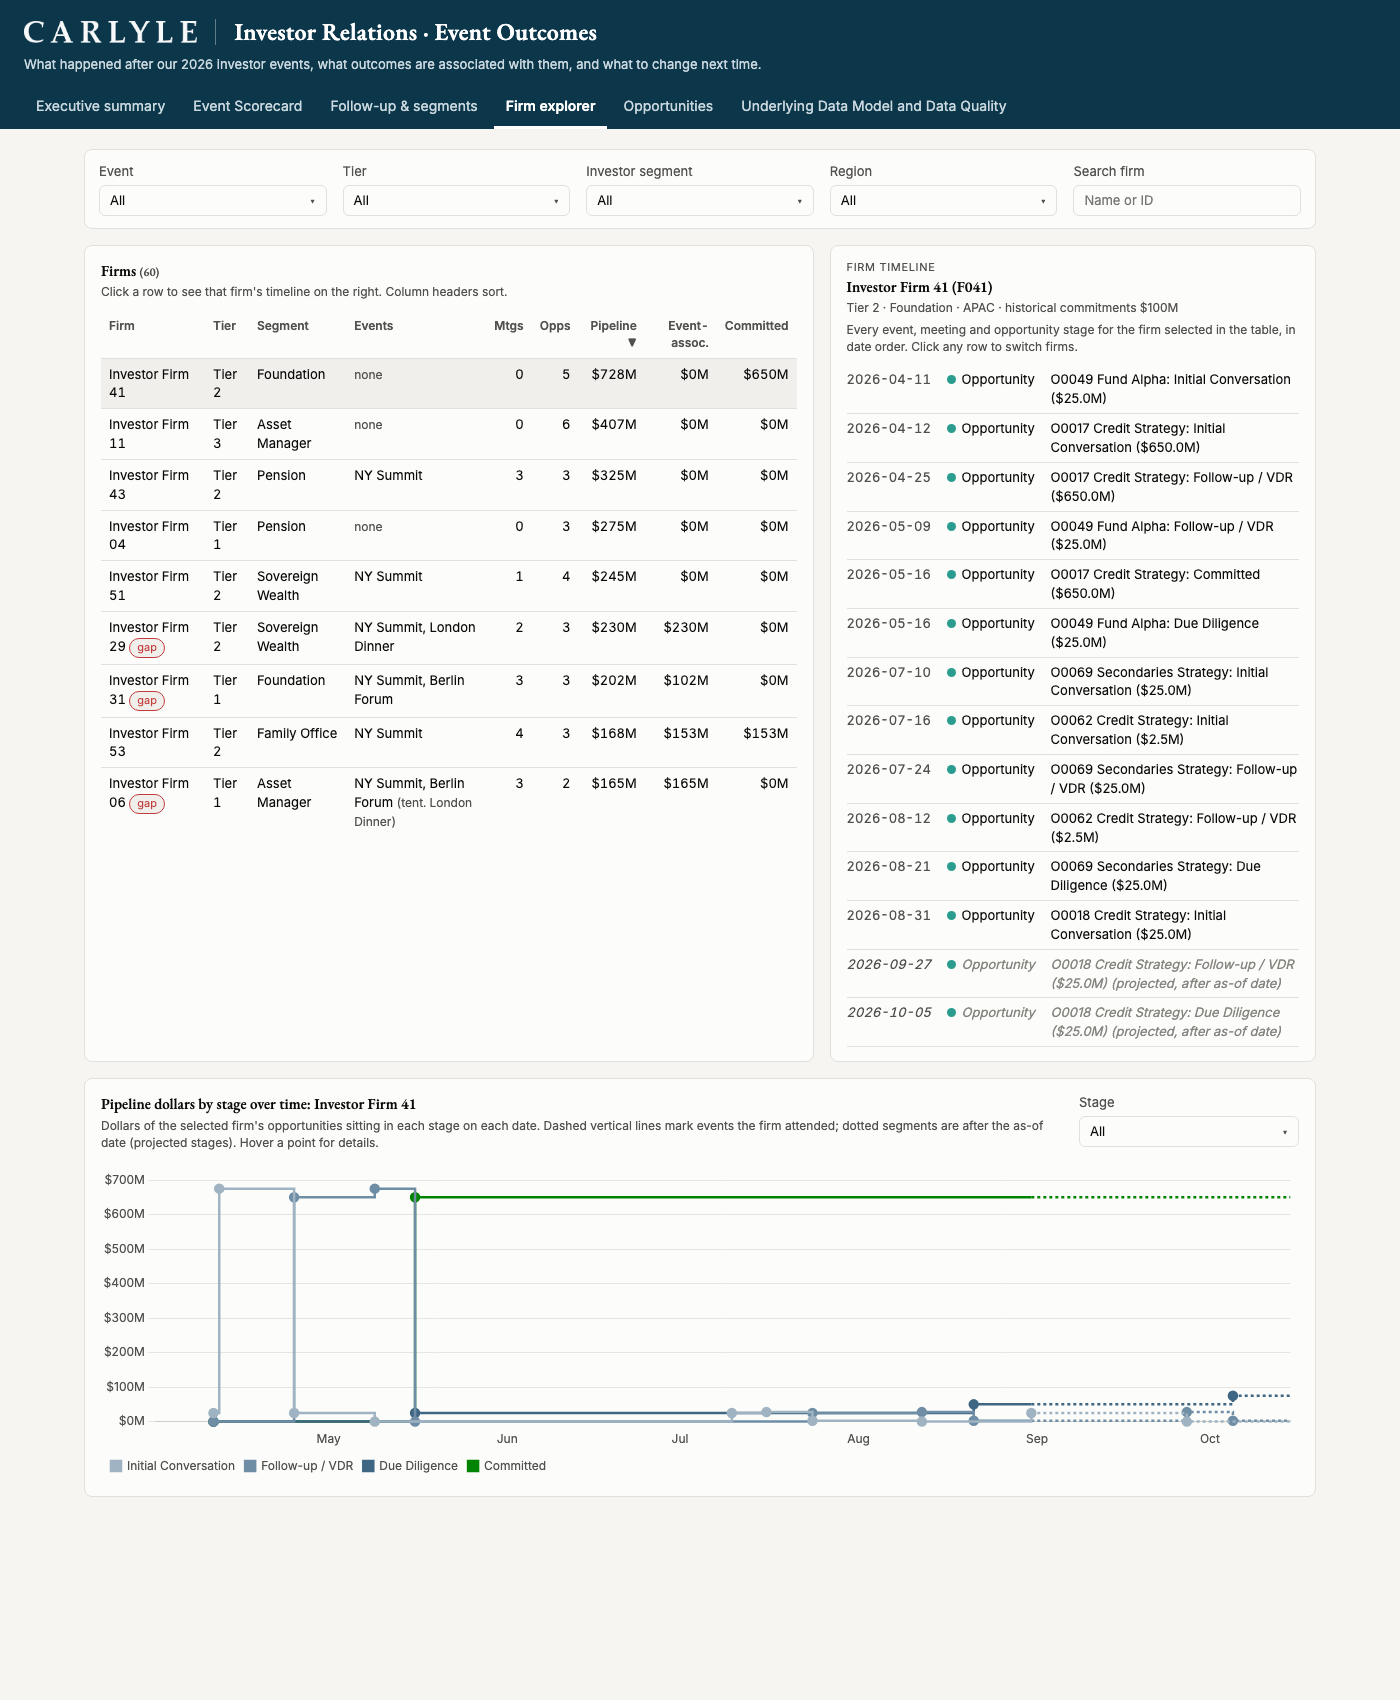
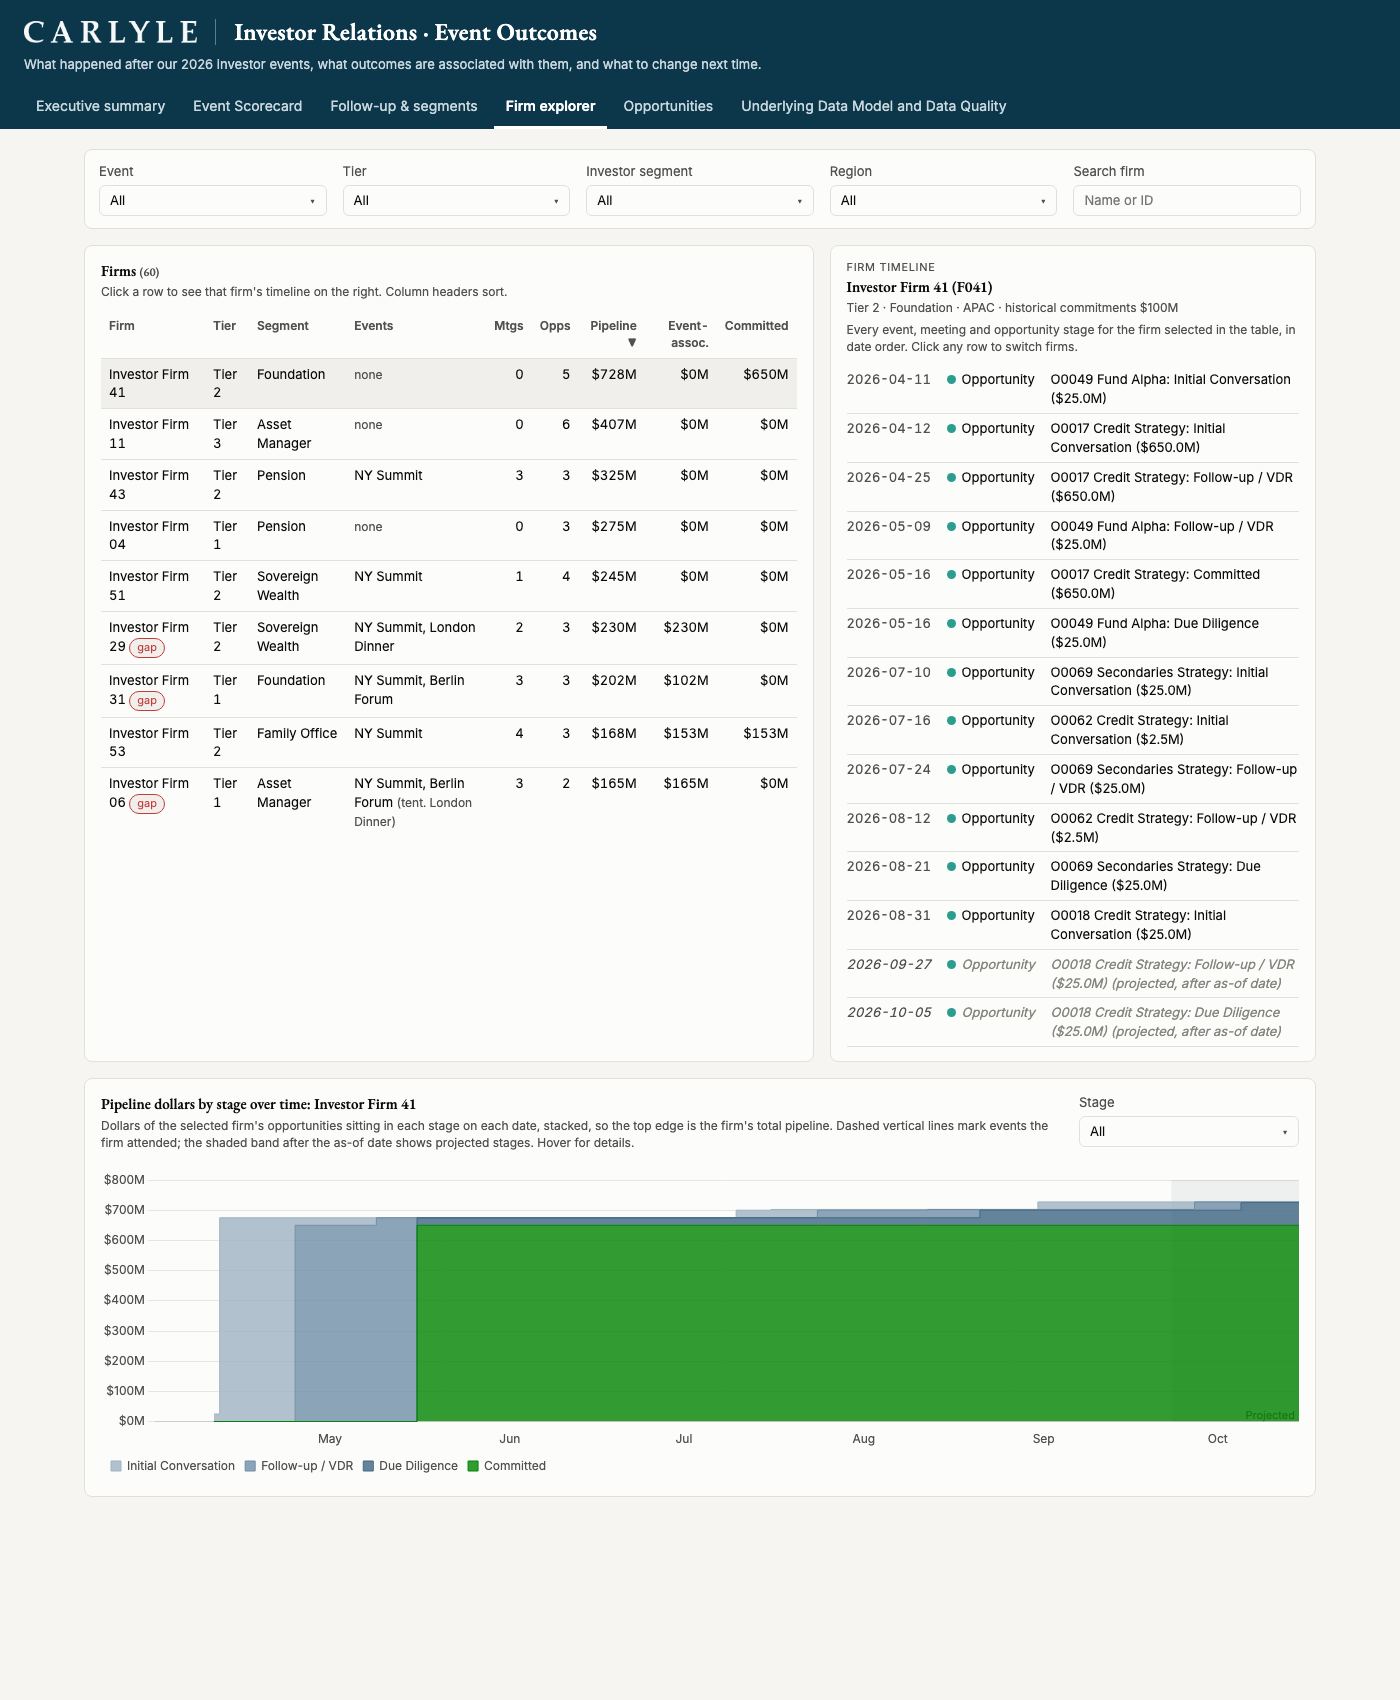
Pipeline dollars by stage: stacked area chart with projected band

Changed region(s): [[0.1229, 0.6547, 0.9521, 0.8418], [0.0614, 0.6859, 0.1229, 0.8106]]

diff --git a/docs/index.html b/docs/index.html
@@ -257,7 +257,7 @@ tr.sel { background: var(--surface-2); }
       <div style="display:flex;justify-content:space-between;align-items:flex-start;gap:16px;flex-wrap:wrap">
         <div style="flex:1;min-width:260px">
           <h2 id="stageTitle">Pipeline dollars by stage over time</h2>
-          <p class="sub">Dollars of the selected firm's opportunities sitting in each stage on each date. Dashed vertical lines mark events the firm attended; dotted segments are after the as-of date (projected stages). Hover a point for details.</p>
+          <p class="sub">Dollars of the selected firm's opportunities sitting in each stage on each date, stacked, so the top edge is the firm's total pipeline. Dashed vertical lines mark events the firm attended; the shaded band after the as-of date shows projected stages. Hover for details.</p>
         </div>
         <label class="sel ctl-inline" style="width:220px"><span class="lbl">Stage</span><details class="ms" id="stageFilter"><summary>All</summary><div class="ms-panel"><div class="ms-opts"><label><input type="checkbox" value="1"> Initial Conversation</label><label><input type="checkbox" value="2"> Follow-up / VDR</label><label><input type="checkbox" value="3"> Due Diligence</label><label><input type="checkbox" value="4"> IC / Documentation</label><label><input type="checkbox" value="5"> Committed</label><label><input type="checkbox" value="0"> Declined</label></div></div></details></label>
       </div>
@@ -755,6 +755,13 @@ function renderTimeline() {
 // A deal sits in a stage from the date it reached it until its next stage; Committed and Declined persist.
 const STAGE_NAMES = ['Declined', 'Initial Conversation', 'Follow-up / VDR', 'Due Diligence', 'IC / Documentation', 'Committed'];
 const STAGE_ORDER = [1, 2, 3, 4, 5, 0];
+const STACK_ORDER = [5, 4, 3, 2, 1, 0];  // bottom to top: Committed at the base, Declined on top
+const projectedBand = {id: 'projectedBand', beforeDatasetsDraw(ch, a, o) {
+  if (!o || o.from == null) return;
+  const {ctx, chartArea: {top, bottom, right}, scales: {x}} = ch, px = Math.max(x.getPixelForValue(o.from), x.left);
+  if (px >= right) return;
+  ctx.save(); ctx.fillStyle = 'rgba(12,55,74,0.06)'; ctx.fillRect(px, top, right - px, bottom - top);
+  ctx.fillStyle = css('--text-2'); ctx.font = '11px Inter, sans-serif'; ctx.textAlign = 'right'; ctx.fillText('Projected', right - 4, bottom - 6); ctx.restore(); }};
 const STAGE_COLORS = () => ({1: '#9fb3c2', 2: '#6f8ea6', 3: '#3f6784', 4: '#1f3f5a', 5: css('--good'), 0: css('--bad')});
 const eventLines = {id: 'eventLines', afterDatasetsDraw(ch, a, o) {
   if (!o || !o.marks) return;
@@ -787,24 +794,23 @@ function renderStageChart(f) {
   const evs = D.mart_firm_event.filter(r => r.firm_id === f.firm_id).map(r => ({t: t(r.event_date), label: evShort(r.event_id) + (r.is_confirmed ? '' : ' (tent.)')}));
   const lo = Math.min(...times, ...evs.map(e => e.t)) - 10 * 864e5, hi = Math.max(...times, ...evs.map(e => e.t), asOf) + 10 * 864e5;
   const picked = [...document.querySelectorAll('#stageFilter input:checked')].map(x => +x.value);
-  const show = STAGE_ORDER.filter(r => (!picked.length || picked.includes(r)) && series[r].some(p => p.y > 0));
+  const show = STACK_ORDER.filter(r => (!picked.length || picked.includes(r)) && series[r].some(p => p.y > 0));
   const colors = STAGE_COLORS();
-  const datasets = show.map(r => {
+  const datasets = show.map((r, k) => {
     const pts = [...series[r], {...series[r][series[r].length - 1], x: hi}];  // carry the last value to the right edge
-    return {label: STAGE_NAMES[r], data: pts, stepped: 'before', borderColor: colors[r], backgroundColor: colors[r], borderWidth: 2.5,
-      pointRadius: pts.map((p, i) => (i < pts.length - 1 && (i === 0 || p.y !== pts[i - 1].y) ? 4 : 0)), pointHoverRadius: 6,
-      segment: {borderDash: c => (c.p1.parsed.x > asOf ? [3, 3] : undefined)}};
+    return {label: STAGE_NAMES[r], data: pts, stepped: 'before', fill: k === 0 ? 'origin' : '-1', borderColor: colors[r], backgroundColor: colors[r] + 'cc',
+      borderWidth: 1, pointRadius: 0, pointHoverRadius: 4};
   });
-  chart('cStage', {type: 'line', plugins: [eventLines], data: {datasets},
+  chart('cStage', {type: 'line', plugins: [projectedBand, eventLines], data: {datasets},
     options: {interaction: {mode: 'nearest', intersect: false, axis: 'x'}, layout: {padding: {top: 18}},
-      plugins: {legend: {position: 'bottom', align: 'start', labels: {boxWidth: 10, boxHeight: 10}}, eventLines: {marks: evs},
+      plugins: {legend: {position: 'bottom', align: 'start', reverse: true, labels: {boxWidth: 10, boxHeight: 10}}, eventLines: {marks: evs}, projectedBand: {from: asOf},
         tooltip: {callbacks: {title: c => mdy(new Date(c[0].parsed.x).toISOString().slice(0, 10)) + (c[0].parsed.x > asOf ? ' (projected)' : ''),
           label: c => `${c.dataset.label}: ${fmtM(c.raw.y)}${c.raw.ids.length ? ' (' + c.raw.ids.join(', ') + ')' : ''}`}}},
       scales: {x: {type: 'linear', min: lo, max: hi, grid: {display: false},
           afterBuildTicks: ax => { const out = [], d = new Date(ax.min); d.setUTCDate(1); d.setUTCMonth(d.getUTCMonth() + 1);
             for (; d.getTime() <= ax.max; d.setUTCMonth(d.getUTCMonth() + 1)) out.push({value: d.getTime()}); ax.ticks = out; },
           ticks: {callback: v => new Date(v).toLocaleString('en-US', {month: 'short', timeZone: 'UTC'})}},
-        y: {beginAtZero: true, grid: {color: css('--grid')}, border: {display: false}, ticks: {callback: v => fmtM(v)}}}}});
+        y: {stacked: true, beginAtZero: true, grid: {color: css('--grid')}, border: {display: false}, ticks: {callback: v => fmtM(v)}}}}});
 }
 
 // ---------- opps ----------

diff --git a/app/streamlit_app.py b/app/streamlit_app.py
@@ -430,8 +430,8 @@ with tab_x:
         st.dataframe(t[["dt", "kind", "detail"]], width="stretch", hide_index=True)
         hc = st.columns([3, 1])
         chart_head(hc[0], f"Pipeline dollars by stage over time: {info.firm_name}",
-                   "Dollars of the firm's opportunities sitting in each stage on each date. Dashed vertical lines mark events the firm "
-                   "attended; dotted segments are after the as-of date (projected stages).")
+                   "Dollars of the firm's opportunities sitting in each stage on each date, stacked, so the top edge is the firm's total "
+                   "pipeline. Dashed vertical lines mark events the firm attended; the shaded band after the as-of date shows projected stages.")
         stage_names = {1: "Initial Conversation", 2: "Follow-up / VDR", 3: "Due Diligence", 4: "IC / Documentation", 5: "Committed", 0: "Declined"}
         pick_st = hc[1].multiselect("Stage", list(stage_names), format_func=stage_names.get, placeholder="All", key="fx_stage")
         fo = opps[opps.firm_id == pick]
@@ -452,7 +452,7 @@ with tab_x:
 
             colors = {1: "#9fb3c2", 2: "#6f8ea6", 3: "#3f6784", 4: "#1f3f5a", 5: "#008300", 0: "#c23b3a"}
             fig = go.Figure()
-            for r in [1, 2, 3, 4, 5, 0]:
+            for r in [5, 4, 3, 2, 1, 0]:  # bottom to top: Committed at the base, Declined on top
                 if pick_st and r not in pick_st:
                     continue
                 ys, ids = [], []
@@ -461,25 +461,19 @@ with tab_x:
                     ys.append(float(amt[inn].sum())); ids.append(", ".join(inn))
                 if not any(ys):
                     continue
-                xs = list(times) + [hi]
-                ys, ids = ys + [ys[-1]], ids + [ids[-1]]
-                actual = [i for i, x in enumerate(xs) if pd.Timestamp(x) <= as_of]
-                split = (actual[-1] + 1) if actual else 0
-                seg = [(xs[:split + 1], ys[:split + 1], ids[:split + 1], "solid", True), (xs[split:], ys[split:], ids[split:], "dot", False)]
-                for sx, sy, sid, dash, legend in seg:
-                    if len(sx) < 2 and dash == "dot":
-                        continue
-                    fig.add_scatter(x=sx, y=sy, mode="lines+markers", name=stage_names[r], legendgroup=str(r), showlegend=legend,
-                                    line=dict(color=colors[r], width=2.5, shape="hv", dash=dash), marker=dict(size=6),
-                                    customdata=sid, hovertemplate=stage_names[r] + ": %{y:$,.0f} · %{x|%m-%d-%Y}<br>%{customdata}<extra></extra>")
+                fig.add_scatter(x=list(times) + [hi], y=ys + [ys[-1]], mode="lines", name=stage_names[r], stackgroup="stages",
+                                line=dict(color=colors[r], width=1, shape="hv"), fillcolor=colors[r],
+                                customdata=ids + [ids[-1]], hovertemplate=stage_names[r] + ": %{y:$,.0f} · %{x|%m-%d-%Y}<br>%{customdata}<extra></extra>")
+            fig.add_vrect(x0=as_of, x1=hi, fillcolor="#0c374a", opacity=0.06, line_width=0,
+                          annotation_text="Projected", annotation_position="bottom right", annotation_font=dict(size=11, color="#5b6570"))
             for k, r in enumerate(ev_rows.itertuples()):
                 fig.add_vline(x=pd.Timestamp(r.event_date).value / 1e6, line=dict(color="#8a949c", dash="dash", width=1))
                 fig.add_annotation(x=r.event_date, y=1.02 + 0.07 * (k % 2), yref="paper", yanchor="bottom", showarrow=False,
                                    text=EV_SHORT[r.event_id] + ("" if r.is_confirmed else " (tent.)"), font=dict(size=11, color="#5b6570"))
             fig.update_yaxes(tickprefix="$", gridcolor="#e6eaed", zeroline=False, rangemode="tozero")
             fig.update_xaxes(showgrid=False, tickformat="%b")
-            fig.update_layout(height=380, margin=dict(l=10, r=10, t=50, b=10), plot_bgcolor="rgba(0,0,0,0)", hovermode="closest",
-                              legend=dict(orientation="h", y=-0.15, x=0), font=dict(family="Inter, system-ui, sans-serif", color="#3b4450"))
+            fig.update_layout(height=380, margin=dict(l=10, r=10, t=50, b=10), plot_bgcolor="rgba(0,0,0,0)", hovermode="x unified",
+                              legend=dict(orientation="h", y=-0.15, x=0, traceorder="reversed"), font=dict(family="Inter, system-ui, sans-serif", color="#3b4450"))
             st.plotly_chart(fig, width="stretch")
 
 with tab_p:
